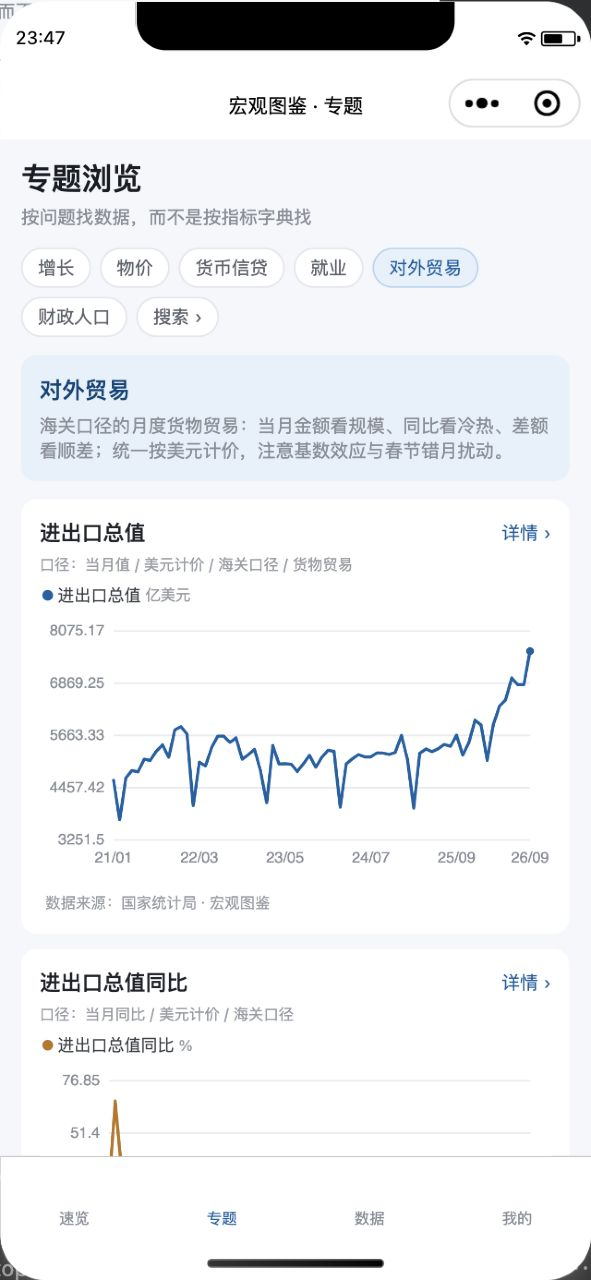
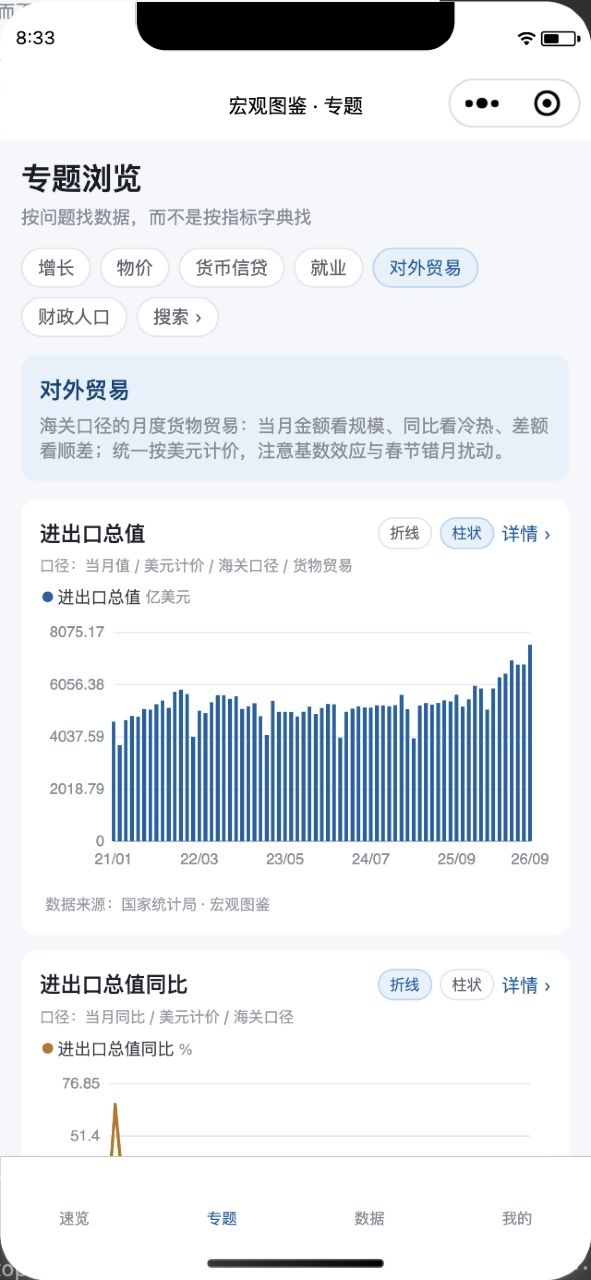
fix: 修复柱状图切换无效，专题页支持逐图切换折线/柱状
- 根因：topics.js / detail.js 把柱状图硬限定为 value_type === 'growth'，
  字典里 10 个 default_chart='bar' 的指标有 7 个是总量类，全被强制画成折线；
  详情页点「柱状」只改变按钮高亮，图表 mode 始终为 line。
- 去掉 growth 限制，默认按 default_chart 出图；makeChart 改为接收 mode 字符串，
  growthMode（红涨绿跌）仍仅对增速类开启，总量/利率/指数类沿用系列色。
- detail.js 的 rebuild 支持显式 override，工具栏新值不再依赖 setData 更新时序；
  并排小多图也可切换，双序列叠加对比固定为折线。
- 专题页每张图新增「折线 / 柱状」切换，catchtap 阻止冒泡，
  点击切换不会误跳详情页，「详情 ›」跳转保持不变。
- chart.js 柱状图统一把 Y 轴范围扩到含 0，柱顶与零点使用同一坐标系，
  修正总量类指标柱子被画到画布外的问题，并补画零轴。
- README 更新图表说明；重录 02/03 截图并重建 6 帧演示 GIF。

diff --git a/pages/detail/detail.js b/pages/detail/detail.js
@@ -71,7 +71,7 @@ Page({
                 sourceUrl: current.source_url || '',
                 gapReason: vm.gapText(current),
                 compareNames: ['不对比'].concat(list.filter(function (x) { return x.code !== current.code; }).map(function (x) { return x.name; })),
-                mode: current.value_type === 'growth' && current.default_chart === 'bar' ? 'bar' : 'line',
+                mode: current.default_chart === 'bar' ? 'bar' : 'line',
             });
             wx.setNavigationBarTitle({ title: current.name });
             that.rebuild();
@@ -80,28 +80,31 @@ Page({
         });
     },
 
-    rebuild: function () {
+    // override 由工具栏显式传入新值，避免依赖 setData 更新 this.data 的时序。
+    rebuild: function (override) {
+        const opt = override || {};
+        const mode = opt.mode || this.data.mode;
+        const range = opt.range || this.data.range;
         const that = this;
         const current = this._current;
         const rows = this._rows;
         const compare = this._compareIndicator;
         const compareRows = this._compareRows;
-        const mainPeriods = vm.sliceByRange(vm.sortedPeriods(rows), current.frequency, this.data.range);
-        const growth = current.value_type === 'growth';
+        const mainPeriods = vm.sliceByRange(vm.sortedPeriods(rows), current.frequency, range);
         const charts = [];
         const labels = [];
         let compareMode = 'single';
         let warning = '';
 
         if (compare) {
-            const otherPeriods = vm.sliceByRange(vm.sortedPeriods(compareRows), compare.frequency, this.data.range);
+            const otherPeriods = vm.sliceByRange(vm.sortedPeriods(compareRows), compare.frequency, range);
             const sameGroup = current.comparable_group === compare.comparable_group;
             if (!sameGroup) {
                 // 口径/单位不同：禁止叠加，改为并排小多图。
                 compareMode = 'small';
                 warning = '两个指标的口径或单位不同，已改为并排小多图，禁止叠加比较。';
-                charts.push(this.makeChart(current, rows, mainPeriods, COLORS[0], growth && this.data.mode === 'bar'));
-                charts.push(this.makeChart(compare, compareRows, otherPeriods, COLORS[1], false));
+                charts.push(this.makeChart(current, rows, mainPeriods, COLORS[0], mode));
+                charts.push(this.makeChart(compare, compareRows, otherPeriods, COLORS[1], 'line'));
                 labels.push(current.name + '：' + current.caliber);
                 labels.push(compare.name + '：' + compare.caliber);
             } else {
@@ -131,7 +134,7 @@ Page({
                 }
             }
         } else {
-            charts.push(this.makeChart(current, rows, mainPeriods, COLORS[0], growth && this.data.mode === 'bar'));
+            charts.push(this.makeChart(current, rows, mainPeriods, COLORS[0], mode));
             labels.push(current.name + '：' + current.caliber);
         }
 
@@ -166,26 +169,32 @@ Page({
         });
     },
 
-    makeChart: function (indicator, rows, periods, color, barMode) {
+    // mode 由工具栏直接决定，不再限定只有增速类指标才能画柱状图。
+    // growthMode 只影响「红涨绿跌」配色，仍仅对增速类开启；总量、利率类沿用系列色。
+    makeChart: function (indicator, rows, periods, color, mode) {
+        const barMode = mode === 'bar';
+        const growth = indicator.value_type === 'growth';
         return {
             key: indicator.code + '-single',
             periods: periods,
             series: [vm.buildSeries(indicator, rows, periods, color)],
             mode: barMode ? 'bar' : 'line',
             dualAxis: false,
-            growthMode: barMode,
+            growthMode: growth && barMode,
             sourceText: vm.sourceText(indicator, rows[rows.length - 1]),
             height: 220,
         };
     },
 
     onRangeTap: function (event) {
-        this.setData({ range: event.currentTarget.dataset.key });
-        this.rebuild();
+        const range = event.currentTarget.dataset.key;
+        this.setData({ range: range });
+        this.rebuild({ range: range });
     },
     onModeTap: function (event) {
-        this.setData({ mode: event.currentTarget.dataset.mode });
-        this.rebuild();
+        const mode = event.currentTarget.dataset.mode;
+        this.setData({ mode: mode });
+        this.rebuild({ mode: mode });
     },
     onComparePick: function (event) {
         const index = Number(event.detail.value);

diff --git a/utils/chart.js b/utils/chart.js
@@ -76,6 +76,14 @@ function draw(ctx, width, height, config) {
 
     var ranges = [];
     series.forEach(function (s) { ranges.push(collectRange(s.points || [])); });
+    var barSingle = cfg.mode === 'bar' && series.length === 1;
+    // 柱状图必须以 0 为基线。若数值全为正，niceRange 会把 min 抬到 0 以上，
+    // 此时柱顶与零点不在同一坐标系里，柱子会被画到画布外。这里统一把范围扩到含 0，
+    // Y 轴刻度也因此能显示 0，避免读者误判量级。
+    if (barSingle && ranges[0]) {
+        if (ranges[0].min > 0) ranges[0].min = 0;
+        if (ranges[0].max < 0) ranges[0].max = 0;
+    }
     var mainRange = ranges[0];
 
     // 轴标签宽度随数值变化：GDP 等六位数标签用固定的 46px 左边距会被画布裁掉。
@@ -125,28 +133,27 @@ function draw(ctx, width, height, config) {
         return padT + plotH - ((value - range.min) / span) * plotH;
     }
 
-    // 零轴：增速柱状与含负值的图必须显示，避免视觉误读。
-    if (cfg.growthMode || mainRange.min < 0) {
-        if (mainRange.min < 0 && mainRange.max > 0) {
-            var zeroY = yAt(0, mainRange);
-            ctx.strokeStyle = '#B4B8C0';
-            ctx.lineWidth = 1;
-            ctx.beginPath();
-            ctx.moveTo(padL, zeroY);
-            ctx.lineTo(padL + plotW, zeroY);
-            ctx.stroke();
-        }
+    // 零轴：柱状图以 0 为基线，增速图与含负值的折线图也必须显示，避免视觉误读。
+    var showZeroLine = barSingle || cfg.growthMode || (mainRange.min < 0 && mainRange.max > 0);
+    if (showZeroLine && mainRange.min <= 0 && mainRange.max >= 0) {
+        var zeroY = yAt(0, mainRange);
+        ctx.strokeStyle = '#B4B8C0';
+        ctx.lineWidth = 1;
+        ctx.beginPath();
+        ctx.moveTo(padL, zeroY);
+        ctx.lineTo(padL + plotW, zeroY);
+        ctx.stroke();
     }
 
-    if (cfg.mode === 'bar' && series.length === 1) {
+    if (barSingle) {
         var barW = Math.max(2, Math.min(18, plotW / periods.length * 0.62));
+        var zeroBar = yAt(0, ranges[0]);
         series[0].points.forEach(function (p, i) {
             var n = toNumber(p.value);
             if (n === null) return;
             var y = yAt(n, ranges[0]);
-            var zero = yAt(0, ranges[0].min < 0 ? ranges[0] : { min: 0, max: ranges[0].max });
-            var top = Math.min(y, zero);
-            var h = Math.max(1, Math.abs(zero - y));
+            var top = Math.min(y, zeroBar);
+            var h = Math.max(1, Math.abs(zeroBar - y));
             ctx.fillStyle = cfg.growthMode ? (n >= 0 ? POSITIVE : NEGATIVE) : (series[0].color || COLORS[0]);
             ctx.fillRect(xAt(i) - barW / 2, top, barW, h);
             hitAreas.push({ x: xAt(i), y: top, index: i, period: periods[i], value: n, label: series[0].label });

diff --git a/pages/topics/topics.js b/pages/topics/topics.js
@@ -61,7 +61,9 @@ Page({
                 const rows = grouped[item.id] || [];
                 if (rows.length === 0) return;
                 const periods = vm.sliceByRange(vm.sortedPeriods(rows), item.frequency, '10');
-                const mode = item.value_type === 'growth' && item.default_chart === 'bar' ? 'bar' : 'line';
+                // 默认按字典的 default_chart 出图，总量类（如进出口金额）也允许用柱状图。
+                const mode = item.default_chart === 'bar' ? 'bar' : 'line';
+                const isGrowth = item.value_type === 'growth';
                 charts.push({
                     code: item.code,
                     title: item.name,
@@ -69,8 +71,9 @@ Page({
                     periods: periods,
                     series: [vm.buildSeries(item, rows, periods, COLORS[charts.length % COLORS.length])],
                     mode: mode,
+                    isGrowth: isGrowth,
                     dualAxis: false,
-                    growthMode: item.value_type === 'growth' && mode === 'bar',
+                    growthMode: isGrowth && mode === 'bar',
                     sourceText: vm.sourceText(item, rows[rows.length - 1]),
                     height: 200,
                 });
@@ -89,6 +92,16 @@ Page({
         });
     },
 
+    // 每张专题图独立切换折线 / 柱状；catchtap 阻止冒泡到卡片，避免误跳详情页。
+    onChartModeTap: function (event) {
+        const index = Number(event.currentTarget.dataset.index);
+        const mode = event.currentTarget.dataset.mode;
+        const charts = this.data.charts.map(function (c) { return Object.assign({}, c); });
+        if (!charts[index] || charts[index].mode === mode) return;
+        charts[index].mode = mode;
+        charts[index].growthMode = !!charts[index].isGrowth && mode === 'bar';
+        this.setData({ charts: charts });
+    },
     onCategoryTap: function (event) {
         this._category = event.currentTarget.dataset.key;
         this.load();

diff --git a/README.md b/README.md
@@ -27,7 +27,7 @@
 | 页面 | 路径 | 主要内容 |
 | --- | --- | --- |
 | **速览** | `pages/index/index` | 4 张重点指标卡（GDP、CPI、制造业 PMI、M2）、迷你趋势柱、最新数据流水、数据总量与更新时间 |
-| **专题** | `pages/topics/topics` | 按「增长 / 物价 / 货币信贷 / 就业 / 对外贸易 / 财政人口」6 类组织，先给解读再给图表；首屏 3 张图按重要度挑选，列表仍按字典顺序 |
+| **专题** | `pages/topics/topics` | 按「增长 / 物价 / 货币信贷 / 就业 / 对外贸易 / 财政人口」6 类组织，先给解读再给图表；首屏 3 张图按重要度挑选，每张图可独立切换折线 / 柱状，列表仍按字典顺序 |
 | **指标详情** | `pages/detail/detail` | 一句话解释、怎么读、口径与来源、近 5 / 10 年与全部区间、折线 / 柱状切换、双指标对比、点选数据点、生成分享长图 |
 | **数据表** | `pages/data/data` | 按指标 × 期间查阅数据点，支持手动录入、编辑、删除与修订标记 |
 | **搜索** | `pages/search/search` | 按名称、别名、代码检索 35 个指标，数据缺口会直接标注原因 |
@@ -172,7 +172,7 @@ python3 scripts/import_stats.py
 
 ## 图表与分享
 
-- 折线 / 柱状切换、近 5 年 / 10 年 / 全部区间、同口径双指标对比、点击折线上的数据点查看前值 / 预期值 / 修订值与来源。
+- 专题页每张图、详情页主图均可切换折线 / 柱状，默认按指标字典的 `default_chart` 出图；总量、利率、指数类指标同样支持柱状，柱状图统一以 0 为基线并在 Y 轴显示 0 刻度，增速类柱状用红涨绿跌。近 5 年 / 10 年 / 全部区间、同口径双指标对比、点击折线或柱子上的数据点查看前值 / 预期值 / 修订值与来源。双序列叠加对比固定为折线。
 - 「生成分享图」把当前图表导出为带来源水印的长图保存到相册，图片可直接发微信好友或朋友圈，不受小程序发布状态限制。
 - 6 个页面都已定义 `onShareAppMessage`；详情页转发会带上指标 `code`，对方打开后直达该指标。
 
